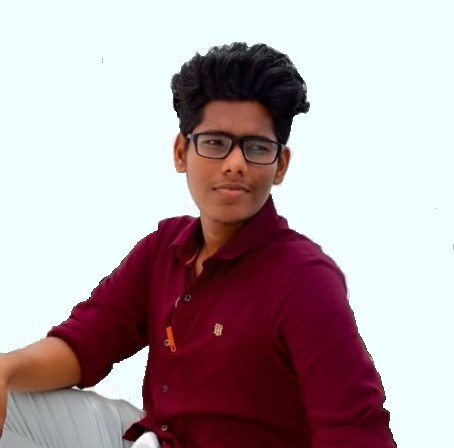
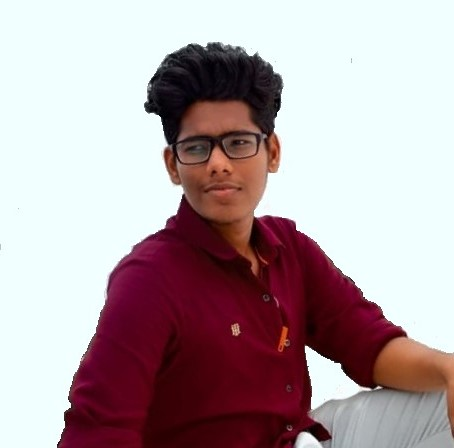
set hero page;

diff --git a/index.html b/index.html
@@ -8,75 +8,86 @@
     <script src="bootstrap/js/jquery.js"></script>
     <link rel="stylesheet" href="bootstrap/css/bootstrap.css">
     <script src="bootstrap/js/bootstrap.js"></script>
+    <!-- <link rel="stylesheet" href="https://cdn.jsdelivr.net/npm/bootstrap@4.0.0/dist/css/bootstrap.min.css" integrity="sha384-Gn5384xqQ1aoWXA+058RXPxPg6fy4IWvTNh0E263XmFcJlSAwiGgFAW/dAiS6JXm" crossorigin="anonymous"> -->
     
 
 </head>
 <body>
     <nav class="navbar navbar-expand-lg  navbar-light bg-light" >
-       <div class="container">
-        
-        <a class="navbar-brand" style="float:right;"href="#">Developer</a>
+       <div class="container">       
+        <a class="navbar-brand" style="text-align:center;"href="#">Developer</a>
         <button class="navbar-toggler" type="button" data-toggle="collapse" data-target="#navbarNav" aria-controls="navbarNav" aria-expanded="false" aria-label="Toggle navigation">
           <span class="navbar-toggler-icon"></span>
         </button>
-        <div class="collapse navbar-collapse"  id="navbarNav">
-          <ul class="navbar-nav"    style="text-align: center;">
+        <div class="collapse navbar-collapse"  id="navbarNav" style="text-align: right;">
+          <ul class="navbar-nav"    >
             <li class="nav-item ">
-              <a class="nav-link" href="#">Home <span class="sr-only">(current)</span></a>
+              <a class="nav-link" href="#home">Home <span class="sr-only">(current)</span></a>
             </li>
             <li class="nav-item">
-              <a class="nav-link" href="#">About Me!</a>
+              <a class="nav-link" href="#about">About Me!</a>
             </li>
             <li class="nav-item">
-              <a class="nav-link" href="#">Education</a>
+              <a class="nav-link" href="#skills">Skills</a>
             </li>
             <li class="nav-item">
-              <a class="nav-link" href="#">Projects</a>
+              <a class="nav-link" href="#education">Education</a>
             </li>
             <li class="nav-item">
-                <a class="nav-link" href="#">Contacts</a>
+              <a class="nav-link" href="#project">Projects</a>
+            </li>
+            <li class="nav-item">
+                <a class="nav-link" href="#contact">Contacts</a>
             </li>
           </ul>
         </div>
        </div>
+       
         
       </nav>
     <div class="container">
+     
      <div class="section">
-
-        <div class="sec hero">
+        <div class="sec hero" id="home">
            <div class="h hero-contact">
             <div class="am">
               I am 
             </div>
             <div class="name">
-              Mohamed Abdulla. M.Sc.,
+              Mohamed Abdulla
             </div>
             <div class="dev">
               PHP DEVELOPER
             </div>
+            <div class="btn" style="align-items: baseline">
+              <a href="MOHAMED_ABDULLA_CV.PDF"><span class="btn btn-success" >Resume</span></a>
+              <a href="mailto:mohamedabdullah0209@gmail.com"><span class="btn btn-danger" >hire me</span></a>
+            </div>
            </div>
-          <div class="h hero-photo">
-            <img src="abd.jpg" alt="my photo" style="min-width:400px;">
+          <div class="h hero-photo" style="float:right;">
+            <img src="abd.jpg" alt="my photo" style="min-width:100px;max-width:300px;height:auto;z-index:-1">
           </div> 
+
         </div>
-        <div class="sec about">ABOUT
-          <div class="a about-photo">about-photo</div>
-          <div class="a about-contant">about-contant</div>
+        <div class="sec about" id="about">
+          <div class="a about-photo"> 
+            <img src="abd1.jpg" alt="my photo">
+          </div>
+          <div class="a about-contant" style="flex-grow: 5;">about-contant</div>
         </div>
-        <div class="sec education">EDUCATION
+        <div class="sec education" id="education">EDUCATION
           <div class="e mclg">msc</div>
           <div class="e bclg">bsc</div>
           <div class="e scl">10th</div>
         </div>
-        <div class="sec projects">PROJECTS
+        <div class="sec projects" id="project">PROJECTS
           <div class="p hall">hall</div>
           <div class="p organ">organ</div>
           <div class="p attendance">attendance</div>
           <div class="p time">time</div>
           
         </div>
-        <div class="sec contact">CONTACT
+        <div class="sec contact" id="contact">CONTACT
           <div class="s form">contants form</div>
           <div class="s legal">legal</div>
         </div>

diff --git a/style.css b/style.css
@@ -19,27 +19,27 @@ body{
 
 .sec{
     width:100%;
-    background-color: azure;
+    background-color: #f0ffff;
     margin:10px;
 }
 
 .hero{
     display: flex;
     flex-flow: row wrap; 
+    justify-content: flex-start;
 }
 
 .h{ 
     margin: 5px;
     /* background-color: aqua; */
-    max-width: 700px;
-    min-width: 500px;
-}
+    width: 300px;
+}   
 .about{
     display: flex;
     flex-flow: row wrap; 
 }
 .a{
-    width:500px;
+    width:300px;
     margin: 5px;
     background-color: aqua;
 }
@@ -73,7 +73,7 @@ body{
 .hero-contact{
     align-content: center;
     padding-left: 30px;
-    min-width: 300px;
+    flex-grow: 5;
 }
 .am{
     font-weight: 600;
